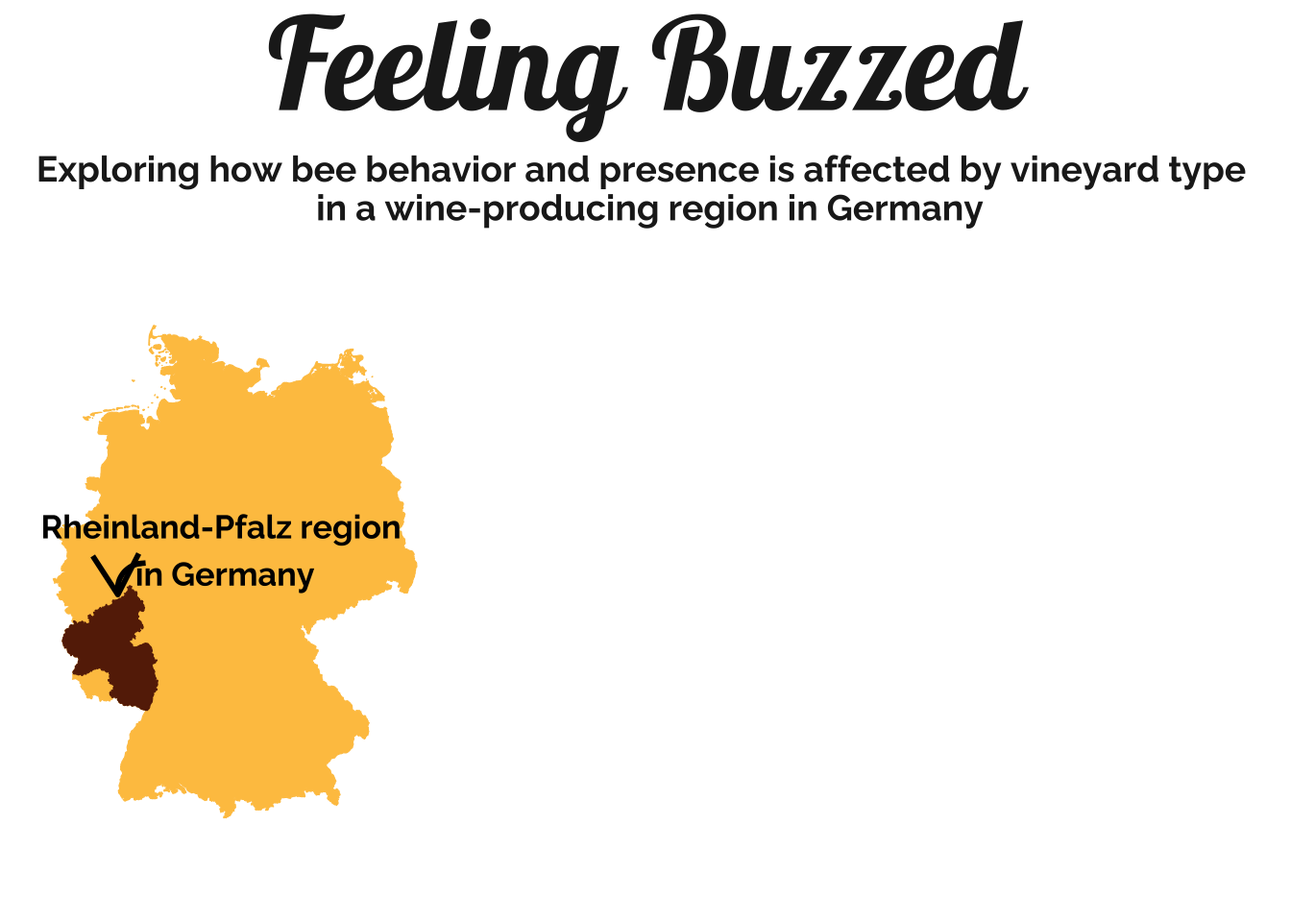
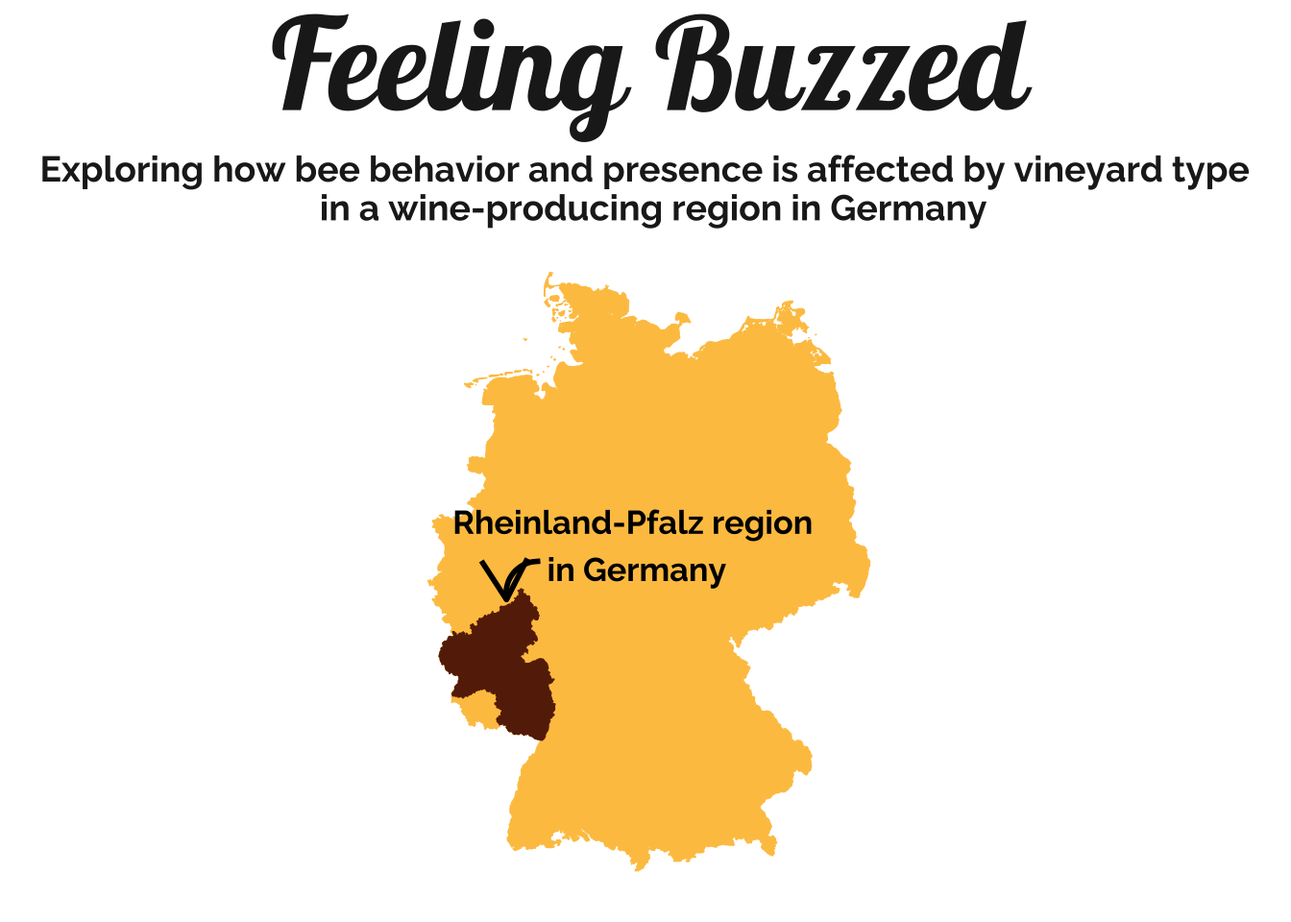
completed blog post

Changed region(s): [[0.0312, 0.2812, 0.6875, 0.9375], [0.0312, 0.0, 0.9688, 0.25]]

diff --git a/docs/blog-posts/2024-03-05-infographic-bees-wine/index.html b/docs/blog-posts/2024-03-05-infographic-bees-wine/index.html
@@ -57,7 +57,26 @@ div.sourceCode
 @media screen {
 pre > code.sourceCode > span > a:first-child::before { text-decoration: underline; }
 }
-</style>
+/* CSS for citations */
+div.csl-bib-body { }
+div.csl-entry {
+  clear: both;
+}
+.hanging-indent div.csl-entry {
+  margin-left:2em;
+  text-indent:-2em;
+}
+div.csl-left-margin {
+  min-width:2em;
+  float:left;
+}
+div.csl-right-inline {
+  margin-left:2em;
+  padding-left:1em;
+}
+div.csl-indent {
+  margin-left: 2em;
+}</style>
 
 
 <script src="../../site_libs/quarto-nav/quarto-nav.js"></script>
@@ -221,9 +240,10 @@ pre > code.sourceCode > span > a:first-child::before { text-decoration: underlin
   <li><a href="#the-product" id="toc-the-product" class="nav-link" data-scroll-target="#the-product">The Product</a></li>
   <li><a href="#how-did-we-get-here" id="toc-how-did-we-get-here" class="nav-link" data-scroll-target="#how-did-we-get-here">How did we get here?</a>
   <ul class="collapse">
-  <li><a href="#top-panel" id="toc-top-panel" class="nav-link" data-scroll-target="#top-panel">Top-Panel</a></li>
-  <li><a href="#middle-panel" id="toc-middle-panel" class="nav-link" data-scroll-target="#middle-panel">Middle Panel</a></li>
-  <li><a href="#bottom-panel" id="toc-bottom-panel" class="nav-link" data-scroll-target="#bottom-panel">Bottom Panel</a></li>
+  <li><a href="#where-is-this-study-relavent-to" id="toc-where-is-this-study-relavent-to" class="nav-link" data-scroll-target="#where-is-this-study-relavent-to">Where is this study relavent to?</a></li>
+  <li><a href="#does-vineyard-type-affect-the-average-amount-of-above-ground-and-below-ground-bees-present" id="toc-does-vineyard-type-affect-the-average-amount-of-above-ground-and-below-ground-bees-present" class="nav-link" data-scroll-target="#does-vineyard-type-affect-the-average-amount-of-above-ground-and-below-ground-bees-present">Does vineyard type affect the average amount of above-ground and below-ground bees present?</a></li>
+  <li><a href="#what-are-the-top-10-species-present-at-a-vertically-oriented-vineyard-type" id="toc-what-are-the-top-10-species-present-at-a-vertically-oriented-vineyard-type" class="nav-link" data-scroll-target="#what-are-the-top-10-species-present-at-a-vertically-oriented-vineyard-type">What are the top 10 species present at a vertically oriented vineyard type?</a></li>
+  <li><a href="#overall-elements" id="toc-overall-elements" class="nav-link" data-scroll-target="#overall-elements">Overall Elements</a></li>
   </ul></li>
   </ul>
 </nav>
@@ -236,8 +256,7 @@ pre > code.sourceCode > span > a:first-child::before { text-decoration: underlin
 
 <section id="background" class="level2">
 <h2 class="anchored" data-anchor-id="background">Background</h2>
-<p>article to check out: https://www.wineenthusiast.com/culture/wine/bees-role-vineyard-sustainability/</p>
-<p>data citation - @wersebeckmann2022</p>
+<p>When tasked with creating a guiding question to build an infographic on to test and trial newly learned data visualization skills, I initially came up blank. Out of all the topics I find interesting how was I going to narrow this down? Then one day I was reading an article by the Wine Enthusiast about my favorite topic, bees. Kathleen Willcox highlighted the important role bees play in the viticulture world and I was immediately struck with the need to know more about this topic . And the best way I know how to approach questions is with data. I then was able to find work done in Germany that investigated bee nesting behavior across vineyard types. Germany with its rich and colorful viticulture history, seemed like the ideal place to help learn whether vineyard type, in this case fallow, terraced, or vertically oriented, impacts the bee species present at a vineyard, and if that causes different species to populate these vineyards. The general result is that different vineyard types can have an impact as to which species are present and can in turn impact the amount of ground nesting and above ground nesting bees present.</p>
 </section>
 <section id="the-product" class="level2">
 <h2 class="anchored" data-anchor-id="the-product">The Product</h2>
@@ -249,8 +268,10 @@ pre > code.sourceCode > span > a:first-child::before { text-decoration: underlin
 </section>
 <section id="how-did-we-get-here" class="level2">
 <h2 class="anchored" data-anchor-id="how-did-we-get-here">How did we get here?</h2>
-<section id="top-panel" class="level3">
-<h3 class="anchored" data-anchor-id="top-panel">Top-Panel</h3>
+<p>In order to begin to create the infographic pictured above the first step was finding a data source. It turns out that researchers in Germany in 2023 were also curious about vineyard types and its impact on the presence of above-ground and below-ground wild bee species <span class="citation" data-cites="wersebeckmann2022">Wersebeckmann et al. (<a href="#ref-wersebeckmann2022" role="doc-biblioref">2022</a>)</span>. The researchers were able to sample from April to August 2019 in a total of three sampling rounds in three vineyard types: vertically oriented, terraced, and fallow (abandoned) . At each sampling round, traps were exposed for three consecutive days per plot (18th–20th April, 28th–30th June, 23rd–26th August). Wild bees were identified to a species level. For analysis, all samples per site were pooled over the three sampling rounds. Each species was then assigned a designation of above-ground or below-ground nesting type.</p>
+<p>Additionally, OpenStreetMap data was accessed in order to better grasp the location associated with this dataset <span class="citation" data-cites="openstreetmap">Open Street Map (<a href="#ref-openstreetmap" role="doc-biblioref">2024</a>)</span>. All vineyard sites were present in the Rheinland-Pfalz region in Germany which is known as a wine-producing region in Germany. So, in order to orient myself and the future viewers of an eventual infographic the first step to tackling my questions is to create a map that highlights where the Rheinland-Pfalz region is in Germany.</p>
+<section id="where-is-this-study-relavent-to" class="level3">
+<h3 class="anchored" data-anchor-id="where-is-this-study-relavent-to">Where is this study relavent to?</h3>
 <div class="cell">
 <details>
 <summary>Code</summary>
@@ -345,64 +366,62 @@ pre > code.sourceCode > span > a:first-child::before { text-decoration: underlin
 <span id="cb1-89"><a href="#cb1-89" aria-hidden="true" tabindex="-1"></a>germany_map <span class="ot">&lt;-</span> <span class="fu">ggplot</span>() <span class="sc">+</span></span>
 <span id="cb1-90"><a href="#cb1-90" aria-hidden="true" tabindex="-1"></a>  <span class="fu">geom_sf</span>(<span class="at">data =</span> germany_outline, <span class="at">color =</span> <span class="st">"#fec44f"</span>, <span class="at">fill =</span> <span class="st">"#fec44f"</span>) <span class="sc">+</span></span>
 <span id="cb1-91"><a href="#cb1-91" aria-hidden="true" tabindex="-1"></a>  <span class="fu">geom_sf</span>(<span class="at">data =</span> rhine, <span class="at">color =</span> <span class="st">"#662506"</span>, <span class="at">fill =</span> <span class="st">"#662506"</span>) <span class="sc">+</span></span>
-<span id="cb1-92"><a href="#cb1-92" aria-hidden="true" tabindex="-1"></a>  <span class="co"># Customize general theme</span></span>
-<span id="cb1-93"><a href="#cb1-93" aria-hidden="true" tabindex="-1"></a>  <span class="fu">theme</span>(</span>
-<span id="cb1-94"><a href="#cb1-94" aria-hidden="true" tabindex="-1"></a></span>
-<span id="cb1-95"><a href="#cb1-95" aria-hidden="true" tabindex="-1"></a>    <span class="co"># Set default color and font family for the text</span></span>
-<span id="cb1-96"><a href="#cb1-96" aria-hidden="true" tabindex="-1"></a>    <span class="at">text =</span> <span class="fu">element_text</span>(<span class="at">family =</span> <span class="st">"raleway"</span>, <span class="at">color =</span> <span class="st">"gray12"</span>),</span>
-<span id="cb1-97"><a href="#cb1-97" aria-hidden="true" tabindex="-1"></a></span>
-<span id="cb1-98"><a href="#cb1-98" aria-hidden="true" tabindex="-1"></a>    <span class="co"># Make the background white and remove extra grid lines</span></span>
-<span id="cb1-99"><a href="#cb1-99" aria-hidden="true" tabindex="-1"></a>    <span class="at">panel.background =</span> <span class="fu">element_rect</span>(<span class="at">fill =</span> <span class="st">"white"</span>, <span class="at">color =</span> <span class="st">"white"</span>),</span>
-<span id="cb1-100"><a href="#cb1-100" aria-hidden="true" tabindex="-1"></a>    <span class="at">panel.grid =</span> <span class="fu">element_blank</span>(),</span>
-<span id="cb1-101"><a href="#cb1-101" aria-hidden="true" tabindex="-1"></a>    <span class="at">panel.grid.major.x =</span> <span class="fu">element_blank</span>(),</span>
-<span id="cb1-102"><a href="#cb1-102" aria-hidden="true" tabindex="-1"></a>    <span class="co"># Remove axis ticks and text</span></span>
-<span id="cb1-103"><a href="#cb1-103" aria-hidden="true" tabindex="-1"></a>    <span class="at">axis.title =</span> <span class="fu">element_blank</span>(),</span>
-<span id="cb1-104"><a href="#cb1-104" aria-hidden="true" tabindex="-1"></a>    <span class="at">axis.ticks =</span> <span class="fu">element_blank</span>(),</span>
-<span id="cb1-105"><a href="#cb1-105" aria-hidden="true" tabindex="-1"></a>    <span class="at">axis.text.y =</span> <span class="fu">element_blank</span>(),</span>
-<span id="cb1-106"><a href="#cb1-106" aria-hidden="true" tabindex="-1"></a>    <span class="at">axis.text.x =</span> <span class="fu">element_blank</span>(),</span>
-<span id="cb1-107"><a href="#cb1-107" aria-hidden="true" tabindex="-1"></a>    <span class="co"># Move the legend to the bottom</span></span>
-<span id="cb1-108"><a href="#cb1-108" aria-hidden="true" tabindex="-1"></a>    <span class="at">legend.position =</span> <span class="st">"left"</span>,</span>
-<span id="cb1-109"><a href="#cb1-109" aria-hidden="true" tabindex="-1"></a>    <span class="at">legend.background =</span> <span class="fu">element_blank</span>()</span>
-<span id="cb1-110"><a href="#cb1-110" aria-hidden="true" tabindex="-1"></a>  )  <span class="sc">+</span></span>
-<span id="cb1-111"><a href="#cb1-111" aria-hidden="true" tabindex="-1"></a>  <span class="co"># add arrow and text to indicate region of Germany</span></span>
-<span id="cb1-112"><a href="#cb1-112" aria-hidden="true" tabindex="-1"></a>  <span class="fu">annotate</span>(<span class="st">"curve"</span>,</span>
-<span id="cb1-113"><a href="#cb1-113" aria-hidden="true" tabindex="-1"></a>           <span class="at">x =</span> <span class="fl">8.2</span>, <span class="at">xend =</span> <span class="fl">7.5</span>,</span>
-<span id="cb1-114"><a href="#cb1-114" aria-hidden="true" tabindex="-1"></a>           <span class="at">y =</span> <span class="fl">51.3</span>, <span class="at">yend =</span> <span class="fl">50.8</span>,</span>
-<span id="cb1-115"><a href="#cb1-115" aria-hidden="true" tabindex="-1"></a>           <span class="at">colour =</span> <span class="st">"black"</span>, <span class="at">linewidth=</span><span class="dv">1</span>, <span class="at">alpha=</span><span class="dv">1</span>,</span>
-<span id="cb1-116"><a href="#cb1-116" aria-hidden="true" tabindex="-1"></a>           <span class="at">arrow=</span><span class="fu">arrow</span>()) <span class="sc">+</span></span>
-<span id="cb1-117"><a href="#cb1-117" aria-hidden="true" tabindex="-1"></a>  <span class="fu">annotate</span>(<span class="st">'text'</span>,</span>
-<span id="cb1-118"><a href="#cb1-118" aria-hidden="true" tabindex="-1"></a>    <span class="at">x =</span> <span class="fl">10.2</span>, <span class="at">y =</span> <span class="fl">51.5</span>,</span>
-<span id="cb1-119"><a href="#cb1-119" aria-hidden="true" tabindex="-1"></a>    <span class="at">label =</span> <span class="st">'Rheinland-Pfalz region </span><span class="sc">\n</span><span class="st">in Germany'</span>,</span>
-<span id="cb1-120"><a href="#cb1-120" aria-hidden="true" tabindex="-1"></a>    <span class="at">fontface =</span> <span class="st">'bold'</span>,</span>
-<span id="cb1-121"><a href="#cb1-121" aria-hidden="true" tabindex="-1"></a>    <span class="at">size =</span> <span class="fl">4.5</span>,</span>
-<span id="cb1-122"><a href="#cb1-122" aria-hidden="true" tabindex="-1"></a>    <span class="at">family =</span> <span class="st">"raleway"</span></span>
-<span id="cb1-123"><a href="#cb1-123" aria-hidden="true" tabindex="-1"></a>  )</span>
-<span id="cb1-124"><a href="#cb1-124" aria-hidden="true" tabindex="-1"></a></span>
-<span id="cb1-125"><a href="#cb1-125" aria-hidden="true" tabindex="-1"></a><span class="co">#..........................create top panel of infographic.........................</span></span>
-<span id="cb1-126"><a href="#cb1-126" aria-hidden="true" tabindex="-1"></a><span class="co"># initialize top panel and set layout specs</span></span>
-<span id="cb1-127"><a href="#cb1-127" aria-hidden="true" tabindex="-1"></a>top_panel <span class="ot">&lt;-</span> (germany_map <span class="sc">+</span> <span class="fu">plot_spacer</span>() <span class="sc">+</span></span>
-<span id="cb1-128"><a href="#cb1-128" aria-hidden="true" tabindex="-1"></a>                <span class="fu">plot_layout</span>(<span class="at">widths =</span> <span class="fu">c</span>(<span class="fl">1.5</span>, <span class="dv">3</span>), <span class="at">guides =</span> <span class="st">"collect"</span>)) <span class="sc">+</span></span>
-<span id="cb1-129"><a href="#cb1-129" aria-hidden="true" tabindex="-1"></a>  </span>
-<span id="cb1-130"><a href="#cb1-130" aria-hidden="true" tabindex="-1"></a>  <span class="co"># set title and theme elements</span></span>
-<span id="cb1-131"><a href="#cb1-131" aria-hidden="true" tabindex="-1"></a>  <span class="fu">plot_annotation</span>(</span>
-<span id="cb1-132"><a href="#cb1-132" aria-hidden="true" tabindex="-1"></a>    <span class="at">title =</span> <span class="st">'Feeling Buzzed'</span>,</span>
-<span id="cb1-133"><a href="#cb1-133" aria-hidden="true" tabindex="-1"></a>    <span class="at">theme =</span> <span class="fu">theme</span>(</span>
-<span id="cb1-134"><a href="#cb1-134" aria-hidden="true" tabindex="-1"></a>      <span class="at">plot.title =</span> <span class="fu">element_text</span>(<span class="at">family =</span> <span class="st">"lobster"</span>, <span class="at">face =</span> <span class="st">"bold"</span>, <span class="at">size =</span> <span class="dv">50</span>, <span class="at">hjust =</span> <span class="fl">0.5</span>, <span class="at">color =</span> <span class="st">"gray12"</span>))) <span class="sc">+</span></span>
-<span id="cb1-135"><a href="#cb1-135" aria-hidden="true" tabindex="-1"></a>  </span>
-<span id="cb1-136"><a href="#cb1-136" aria-hidden="true" tabindex="-1"></a>  <span class="co"># set subtitle and theme elements</span></span>
-<span id="cb1-137"><a href="#cb1-137" aria-hidden="true" tabindex="-1"></a>  <span class="fu">plot_annotation</span>(</span>
-<span id="cb1-138"><a href="#cb1-138" aria-hidden="true" tabindex="-1"></a>    <span class="at">subtitle =</span> <span class="st">"Exploring how bee behavior and presence is affected by vineyard type </span><span class="sc">\n</span><span class="st"> in a wine-producing region in Germany"</span>,</span>
-<span id="cb1-139"><a href="#cb1-139" aria-hidden="true" tabindex="-1"></a>    <span class="at">theme =</span> <span class="fu">theme</span>(<span class="at">plot.subtitle =</span> <span class="fu">element_text</span>(<span class="at">family =</span> <span class="st">"raleway"</span>, <span class="at">face =</span> <span class="st">"bold"</span>, <span class="at">size =</span> <span class="dv">14</span>, <span class="at">hjust =</span> <span class="fl">0.5</span>, <span class="at">color =</span> <span class="st">"gray12"</span>)))</span>
-<span id="cb1-140"><a href="#cb1-140" aria-hidden="true" tabindex="-1"></a></span>
-<span id="cb1-141"><a href="#cb1-141" aria-hidden="true" tabindex="-1"></a>top_panel</span></code><button title="Copy to Clipboard" class="code-copy-button"><i class="bi"></i></button></pre></div>
+<span id="cb1-92"><a href="#cb1-92" aria-hidden="true" tabindex="-1"></a>  <span class="fu">labs</span>(</span>
+<span id="cb1-93"><a href="#cb1-93" aria-hidden="true" tabindex="-1"></a>    <span class="at">title =</span> <span class="st">'Feeling Buzzed'</span>,</span>
+<span id="cb1-94"><a href="#cb1-94" aria-hidden="true" tabindex="-1"></a>    <span class="at">subtitle =</span> <span class="st">"Exploring how bee behavior and presence is affected by vineyard type </span><span class="sc">\n</span><span class="st"> in a wine-producing region in Germany"</span></span>
+<span id="cb1-95"><a href="#cb1-95" aria-hidden="true" tabindex="-1"></a>  ) <span class="sc">+</span></span>
+<span id="cb1-96"><a href="#cb1-96" aria-hidden="true" tabindex="-1"></a>  <span class="co"># Customize general theme</span></span>
+<span id="cb1-97"><a href="#cb1-97" aria-hidden="true" tabindex="-1"></a>  <span class="fu">theme</span>(</span>
+<span id="cb1-98"><a href="#cb1-98" aria-hidden="true" tabindex="-1"></a></span>
+<span id="cb1-99"><a href="#cb1-99" aria-hidden="true" tabindex="-1"></a>    <span class="co"># Set default color and font family for the text</span></span>
+<span id="cb1-100"><a href="#cb1-100" aria-hidden="true" tabindex="-1"></a>    <span class="at">text =</span> <span class="fu">element_text</span>(<span class="at">family =</span> <span class="st">"raleway"</span>, <span class="at">color =</span> <span class="st">"gray12"</span>),</span>
+<span id="cb1-101"><a href="#cb1-101" aria-hidden="true" tabindex="-1"></a></span>
+<span id="cb1-102"><a href="#cb1-102" aria-hidden="true" tabindex="-1"></a>    <span class="co"># Make the background white and remove extra grid lines</span></span>
+<span id="cb1-103"><a href="#cb1-103" aria-hidden="true" tabindex="-1"></a>    <span class="at">panel.background =</span> <span class="fu">element_rect</span>(<span class="at">fill =</span> <span class="st">"white"</span>, <span class="at">color =</span> <span class="st">"white"</span>),</span>
+<span id="cb1-104"><a href="#cb1-104" aria-hidden="true" tabindex="-1"></a>    <span class="at">panel.grid =</span> <span class="fu">element_blank</span>(),</span>
+<span id="cb1-105"><a href="#cb1-105" aria-hidden="true" tabindex="-1"></a>    <span class="at">panel.grid.major.x =</span> <span class="fu">element_blank</span>(),</span>
+<span id="cb1-106"><a href="#cb1-106" aria-hidden="true" tabindex="-1"></a>    </span>
+<span id="cb1-107"><a href="#cb1-107" aria-hidden="true" tabindex="-1"></a>    <span class="co"># Remove axis ticks and text</span></span>
+<span id="cb1-108"><a href="#cb1-108" aria-hidden="true" tabindex="-1"></a>    <span class="at">axis.title =</span> <span class="fu">element_blank</span>(),</span>
+<span id="cb1-109"><a href="#cb1-109" aria-hidden="true" tabindex="-1"></a>    <span class="at">axis.ticks =</span> <span class="fu">element_blank</span>(),</span>
+<span id="cb1-110"><a href="#cb1-110" aria-hidden="true" tabindex="-1"></a>    <span class="at">axis.text.y =</span> <span class="fu">element_blank</span>(),</span>
+<span id="cb1-111"><a href="#cb1-111" aria-hidden="true" tabindex="-1"></a>    <span class="at">axis.text.x =</span> <span class="fu">element_blank</span>(),</span>
+<span id="cb1-112"><a href="#cb1-112" aria-hidden="true" tabindex="-1"></a>    </span>
+<span id="cb1-113"><a href="#cb1-113" aria-hidden="true" tabindex="-1"></a>    <span class="co"># customize the text in the title and subtitle</span></span>
+<span id="cb1-114"><a href="#cb1-114" aria-hidden="true" tabindex="-1"></a>    <span class="at">plot.title =</span> <span class="fu">element_text</span>(<span class="at">family =</span> <span class="st">"lobster"</span>, <span class="at">face =</span> <span class="st">"bold"</span>,</span>
+<span id="cb1-115"><a href="#cb1-115" aria-hidden="true" tabindex="-1"></a>                              <span class="at">size =</span> <span class="dv">50</span>, <span class="at">hjust =</span> <span class="fl">0.5</span>, <span class="at">color =</span> <span class="st">"gray12"</span>),</span>
+<span id="cb1-116"><a href="#cb1-116" aria-hidden="true" tabindex="-1"></a>    <span class="at">plot.subtitle =</span> <span class="fu">element_text</span>(<span class="at">family =</span> <span class="st">"raleway"</span>, <span class="at">face =</span> <span class="st">"bold"</span>,</span>
+<span id="cb1-117"><a href="#cb1-117" aria-hidden="true" tabindex="-1"></a>                                 <span class="at">size =</span> <span class="dv">14</span>, <span class="at">hjust =</span> <span class="fl">0.5</span>, <span class="at">color =</span> <span class="st">"gray12"</span>),</span>
+<span id="cb1-118"><a href="#cb1-118" aria-hidden="true" tabindex="-1"></a>    </span>
+<span id="cb1-119"><a href="#cb1-119" aria-hidden="true" tabindex="-1"></a>    <span class="co"># Move the legend to the bottom</span></span>
+<span id="cb1-120"><a href="#cb1-120" aria-hidden="true" tabindex="-1"></a>    <span class="at">legend.position =</span> <span class="st">"left"</span>,</span>
+<span id="cb1-121"><a href="#cb1-121" aria-hidden="true" tabindex="-1"></a>    <span class="at">legend.background =</span> <span class="fu">element_blank</span>()</span>
+<span id="cb1-122"><a href="#cb1-122" aria-hidden="true" tabindex="-1"></a>  )  <span class="sc">+</span></span>
+<span id="cb1-123"><a href="#cb1-123" aria-hidden="true" tabindex="-1"></a>    </span>
+<span id="cb1-124"><a href="#cb1-124" aria-hidden="true" tabindex="-1"></a>  <span class="co"># add arrow and text to indicate region of Germany</span></span>
+<span id="cb1-125"><a href="#cb1-125" aria-hidden="true" tabindex="-1"></a>  <span class="fu">annotate</span>(<span class="st">"curve"</span>,</span>
+<span id="cb1-126"><a href="#cb1-126" aria-hidden="true" tabindex="-1"></a>           <span class="at">x =</span> <span class="fl">8.2</span>, <span class="at">xend =</span> <span class="fl">7.5</span>,</span>
+<span id="cb1-127"><a href="#cb1-127" aria-hidden="true" tabindex="-1"></a>           <span class="at">y =</span> <span class="fl">51.3</span>, <span class="at">yend =</span> <span class="fl">50.8</span>,</span>
+<span id="cb1-128"><a href="#cb1-128" aria-hidden="true" tabindex="-1"></a>           <span class="at">colour =</span> <span class="st">"black"</span>, <span class="at">linewidth=</span><span class="dv">1</span>, <span class="at">alpha=</span><span class="dv">1</span>,</span>
+<span id="cb1-129"><a href="#cb1-129" aria-hidden="true" tabindex="-1"></a>           <span class="at">arrow=</span><span class="fu">arrow</span>()) <span class="sc">+</span></span>
+<span id="cb1-130"><a href="#cb1-130" aria-hidden="true" tabindex="-1"></a>  <span class="fu">annotate</span>(<span class="st">'text'</span>,</span>
+<span id="cb1-131"><a href="#cb1-131" aria-hidden="true" tabindex="-1"></a>    <span class="at">x =</span> <span class="fl">10.2</span>, <span class="at">y =</span> <span class="fl">51.5</span>,</span>
+<span id="cb1-132"><a href="#cb1-132" aria-hidden="true" tabindex="-1"></a>    <span class="at">label =</span> <span class="st">'Rheinland-Pfalz region </span><span class="sc">\n</span><span class="st">in Germany'</span>,</span>
+<span id="cb1-133"><a href="#cb1-133" aria-hidden="true" tabindex="-1"></a>    <span class="at">fontface =</span> <span class="st">'bold'</span>,</span>
+<span id="cb1-134"><a href="#cb1-134" aria-hidden="true" tabindex="-1"></a>    <span class="at">size =</span> <span class="fl">4.5</span>,</span>
+<span id="cb1-135"><a href="#cb1-135" aria-hidden="true" tabindex="-1"></a>    <span class="at">family =</span> <span class="st">"raleway"</span></span>
+<span id="cb1-136"><a href="#cb1-136" aria-hidden="true" tabindex="-1"></a>  ) </span></code><button title="Copy to Clipboard" class="code-copy-button"><i class="bi"></i></button></pre></div>
 </details>
-<div class="cell-output-display">
-<p><img src="index_files/figure-html/unnamed-chunk-1-1.png" class="img-fluid" width="672"></p>
 </div>
+<div class="quarto-figure quarto-figure-center">
+<figure class="figure">
+<p><img src="images/Screenshot 2024-03-09 at 14.58.37.png" class="img-fluid figure-img" alt="Map of Rheinland-Pfalz region in Germany in dark brown, with a map of Germany in yellow surrounding it."></p>
+</figure>
 </div>
+<p>My goal for creating a map of the Rheinland-Pfalz region of Germany was to create an obvious way to show the size and location of this region in relation to the rest of Germany. I removed all axis labels and coordinate descriptions since my goal was to singularly orient within Germany. Additionally, I wanted to ensure that the color scheme of this map was able to be tied back to the main theme of this infographic, bees. Therefore the color scheme is done to remind the viewer of honey and soil with a custom hex color combination of a golden yellow and dark brown. Additionally, the colors were chosen specifically to be color-blind friendly and accessible. Furthermore, I wanted the text on this plot and the following plots to be warm, and inviting, instead of the base text I used google fonts Losbter and Raleway because of their less formal structure, and playful combination, while still prioritizing readability. As this map is set to be at the top of my visualization a title and subtitle were included to help orient the viewer as to the main topic of the infographic. Additionally, I did not want the viewer to need to use a legend or secondary indicator for determining the name of the region I have highlighted. Therefore an arrow and a text annotation with the region name were included directly on the map.</p>
 </section>
-<section id="middle-panel" class="level3">
-<h3 class="anchored" data-anchor-id="middle-panel">Middle Panel</h3>
+<section id="does-vineyard-type-affect-the-average-amount-of-above-ground-and-below-ground-bees-present" class="level3">
+<h3 class="anchored" data-anchor-id="does-vineyard-type-affect-the-average-amount-of-above-ground-and-below-ground-bees-present">Does vineyard type affect the average amount of above-ground and below-ground bees present?</h3>
 <div class="cell">
 <details>
 <summary>Code</summary>
@@ -466,9 +485,10 @@ pre > code.sourceCode > span > a:first-child::before { text-decoration: underlin
 <p><img src="index_files/figure-html/unnamed-chunk-2-1.png" class="img-fluid" width="672"></p>
 </div>
 </div>
+<p>In order to address this question I wanted to investigate the different vineyard types through boxplots in order to highlight the different distribution of data present. I started by creating an average count of bee species present differentiated by a nesting trait of above-ground or below-ground. This allows a visual comparison of the three vineyard types. I wanted to prioritize a clean background so the background of the plot and the x-axis lines were removed in order to simplify the viewing experience. I created a dashed gray line for the main y-axis lines in order to ensure viewers could make sense of the average species counts, without being a distraction from the overall plot. The main axis titles as well as all components of the legend were bolded in the custom fonts decided earlier in order to emphasize readability. Furthermore, as the vertically oriented vineyard type showed the most distinct difference in nesting traits I chose to emphasize this vineyard type by bolding the title and plot colors for this vineyard type. Due to the middle placement within the infographic I have purposefully chosen to remove all titles, and subtitles from this visualization, in order to keep the infographic less cluttered.</p>
 </section>
-<section id="bottom-panel" class="level3">
-<h3 class="anchored" data-anchor-id="bottom-panel">Bottom Panel</h3>
+<section id="what-are-the-top-10-species-present-at-a-vertically-oriented-vineyard-type" class="level3">
+<h3 class="anchored" data-anchor-id="what-are-the-top-10-species-present-at-a-vertically-oriented-vineyard-type">What are the top 10 species present at a vertically oriented vineyard type?</h3>
 <div class="cell">
 <details>
 <summary>Code</summary>
@@ -560,12 +580,25 @@ pre > code.sourceCode > span > a:first-child::before { text-decoration: underlin
 <p><img src="index_files/figure-html/unnamed-chunk-3-1.png" class="img-fluid" width="672"></p>
 </div>
 </div>
+<p>In order to zoom into one of the vineyard types I wanted to allow viewers of the infographic to see which species were the most recorded during the study for the vertically oriented vineyard type. In order to tackle this question I chose to use a circular bar chart to allow viewers to distinguish which species were the most recorded and be able to distinguish which nesting trait that bee species has. In order to best show this I used common shorthand nomenclature for species name that has the first letter of the Genus and then the name of the species with the full name italicized to follow species naming standards. Additionally, a label was added next to the figure in the infographic which indicated that all species were below-ground nesting bees which created the opportunity to remove the legend for simplicity sake. Furthermore, due to the positioning within the infographic a title was unnecessary as there are arrows to indicate that the vertically oriented vineyard type is being visualized.</p>
+</section>
+<section id="overall-elements" class="level3">
+<h3 class="anchored" data-anchor-id="overall-elements">Overall Elements</h3>
+<p>In order to improve the overall understandability of my infographic I added some overall elements. Some of these elements included bee graphics, a drawing that depicts what below-ground bee hives and nesting habitats look like as well as an image of a vertically oriented vineyard. Additionally, a data description was included as well.</p>
+
 
 
 </section>
 </section>
 
-<div id="quarto-appendix" class="default"><section class="quarto-appendix-contents"><h2 class="anchored quarto-appendix-heading">Citation</h2><div><div class="quarto-appendix-secondary-label">BibTeX citation:</div><pre class="sourceCode code-with-copy quarto-appendix-bibtex"><code class="sourceCode bibtex">@online{widas2024,
+<div id="quarto-appendix" class="default"><section class="quarto-appendix-contents" role="doc-bibliography"><h2 class="anchored quarto-appendix-heading">References</h2><div id="refs" class="references csl-bib-body hanging-indent" role="list">
+<div id="ref-openstreetmap" class="csl-entry" role="listitem">
+Open Street Map. 2024. <span>“Germany.”</span>
+</div>
+<div id="ref-wersebeckmann2022" class="csl-entry" role="listitem">
+Wersebeckmann, Vera, Daniela Warzecha, Martin H. Entling, and Leyer Ilona. 2022. <span>“Contrasting Effects of Vineyard Type, Soil and Landscape Factors on Ground- Versus Above-Ground Nesting Bees.”</span> Dryad. <a href="https://doi.org/10.5061/DRYAD.H44J0ZPQ0">https://doi.org/10.5061/DRYAD.H44J0ZPQ0</a>.
+</div>
+</div></section><section class="quarto-appendix-contents"><h2 class="anchored quarto-appendix-heading">Citation</h2><div><div class="quarto-appendix-secondary-label">BibTeX citation:</div><pre class="sourceCode code-with-copy quarto-appendix-bibtex"><code class="sourceCode bibtex">@online{widas2024,
   author = {Widas, Melissa},
   title = {Relationship Between Bee Behavior and Vineyard Types in
     {Germany}},

diff --git a/docs/blog.html b/docs/blog.html
@@ -194,7 +194,7 @@ ul.task-list li input[type="checkbox"] {
 
 <div class="quarto-listing quarto-listing-container-grid" id="listing-listing">
 <div class="list grid quarto-listing-cols-3">
-<div class="g-col-1" data-index="0" data-categories="MEDS,Visualizations" data-listing-date-sort="1709625600000" data-listing-file-modified-sort="1710019212698" data-listing-date-modified-sort="NaN" data-listing-reading-time-sort="11">
+<div class="g-col-1" data-index="0" data-categories="MEDS,Visualizations" data-listing-date-sort="1709625600000" data-listing-file-modified-sort="1710028461460" data-listing-date-modified-sort="NaN" data-listing-reading-time-sort="16">
 <a href="./blog-posts/2024-03-05-infographic-bees-wine/index.html" class="quarto-grid-link">
 <div class="quarto-grid-item card h-100 card-left">
 <p class="card-img-top">
